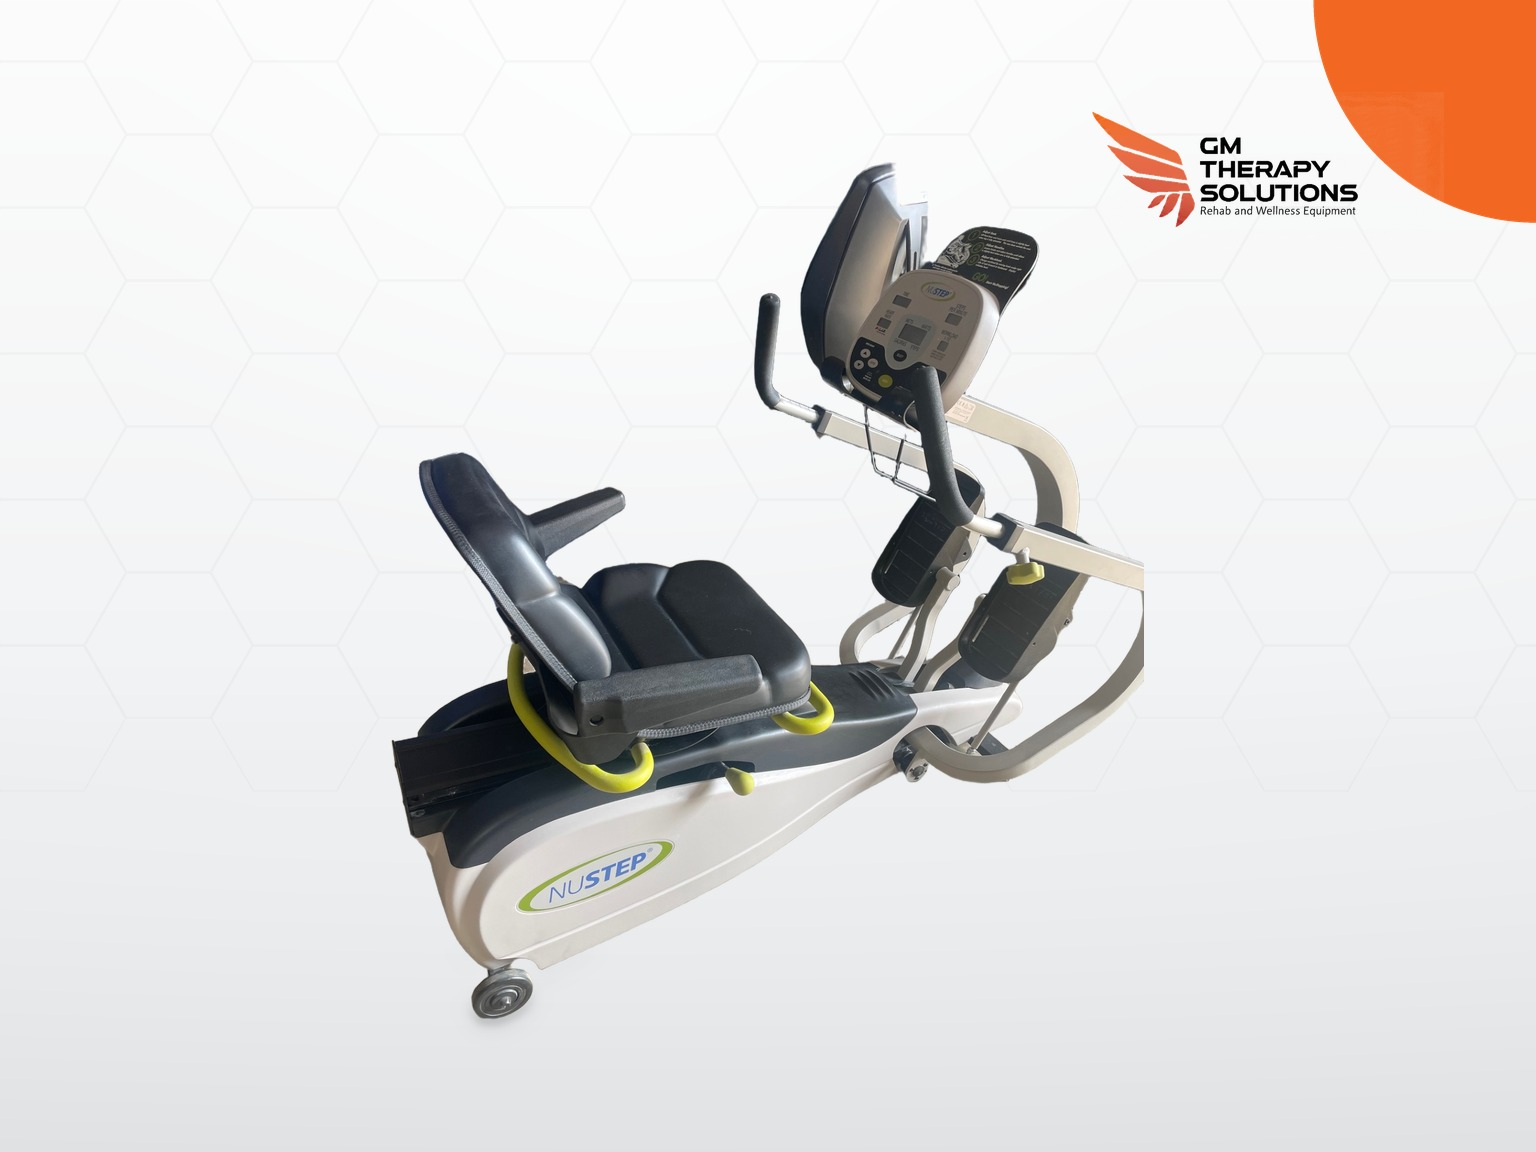
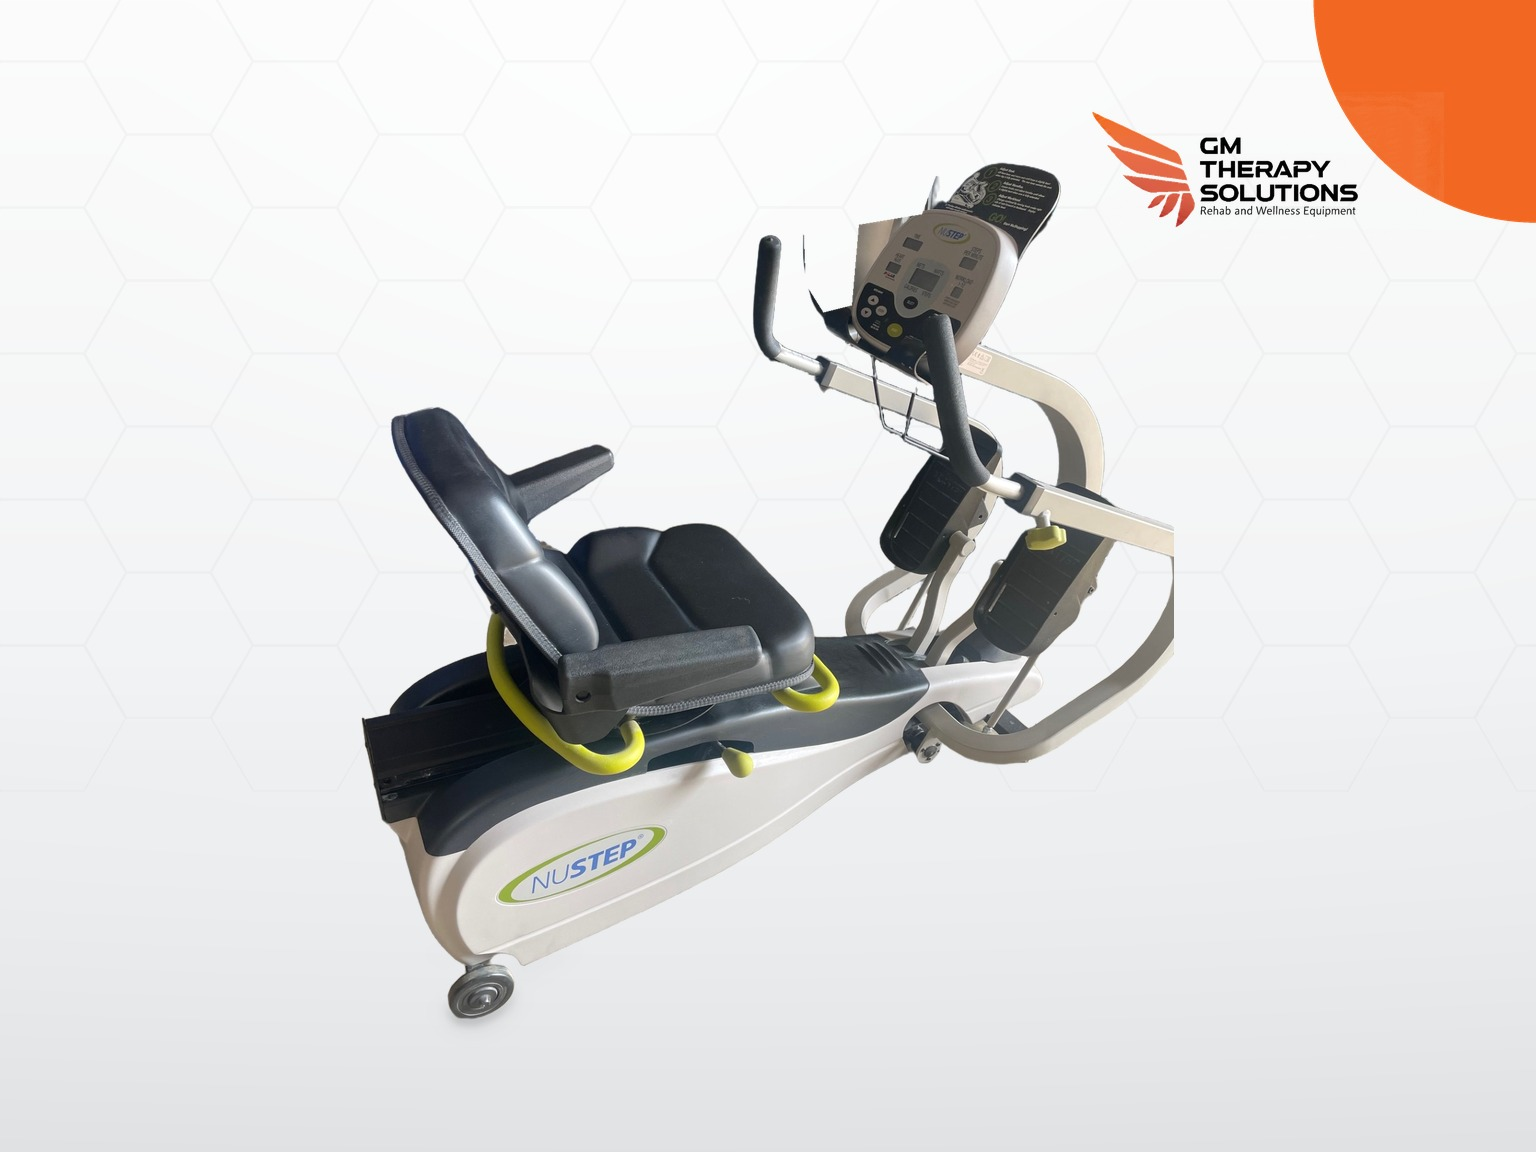
Changes

Changed region(s): [[0.2188, 0.125, 0.7812, 0.9062]]

diff --git a/scripts/brand_backdrop.py b/scripts/brand_backdrop.py
@@ -306,6 +306,8 @@ _CURRENT_NAME = {"name": ""}
 
 # Source-pixel polygons of background clutter to always remove.
 ERASE_REGIONS: dict[str, list[list[tuple[int, int]]]] = {
+    # other machine seat back visible behind the console
+    "U-NS-T4.jpg": [[(798,120),(876,74),(1070,84),(1062,228),(1032,222),(1008,288),(900,306),(888,444),(840,456),(810,408)]],
     "U-GMTS-3HL.jpg": [[(0, 0), (481, 0), (481, 192), (440, 184), (345, 184),
                         (332, 197), (240, 206), (226, 232), (30, 268), (0, 276)]],
     "U-PB-7FT.jpg": [[(230, 525), (440, 618), (440, 760), (280, 790), (260, 700)],
